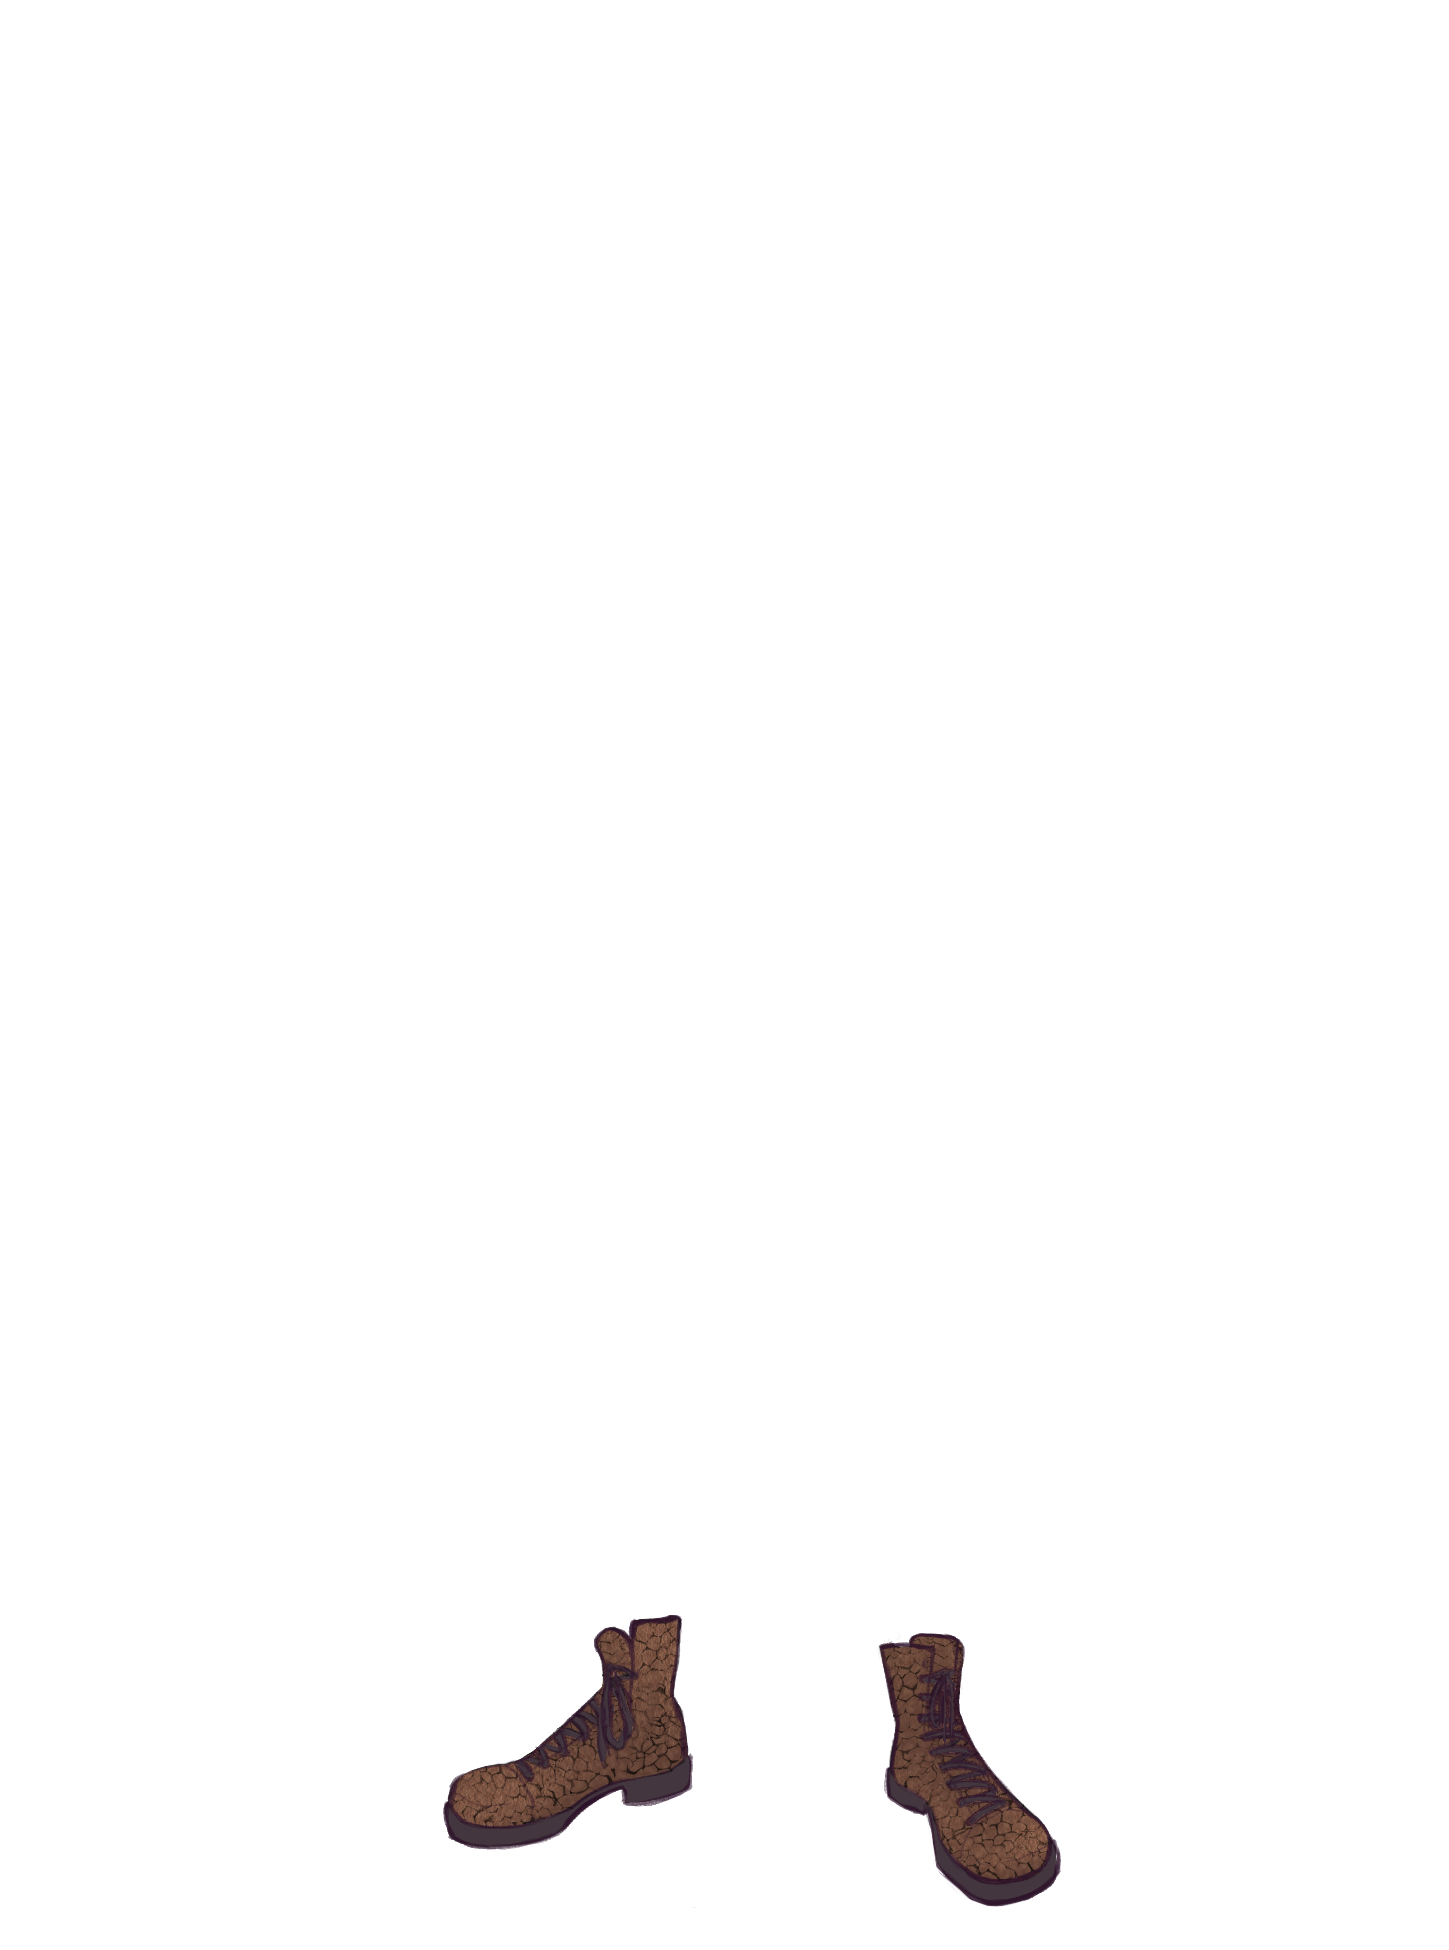
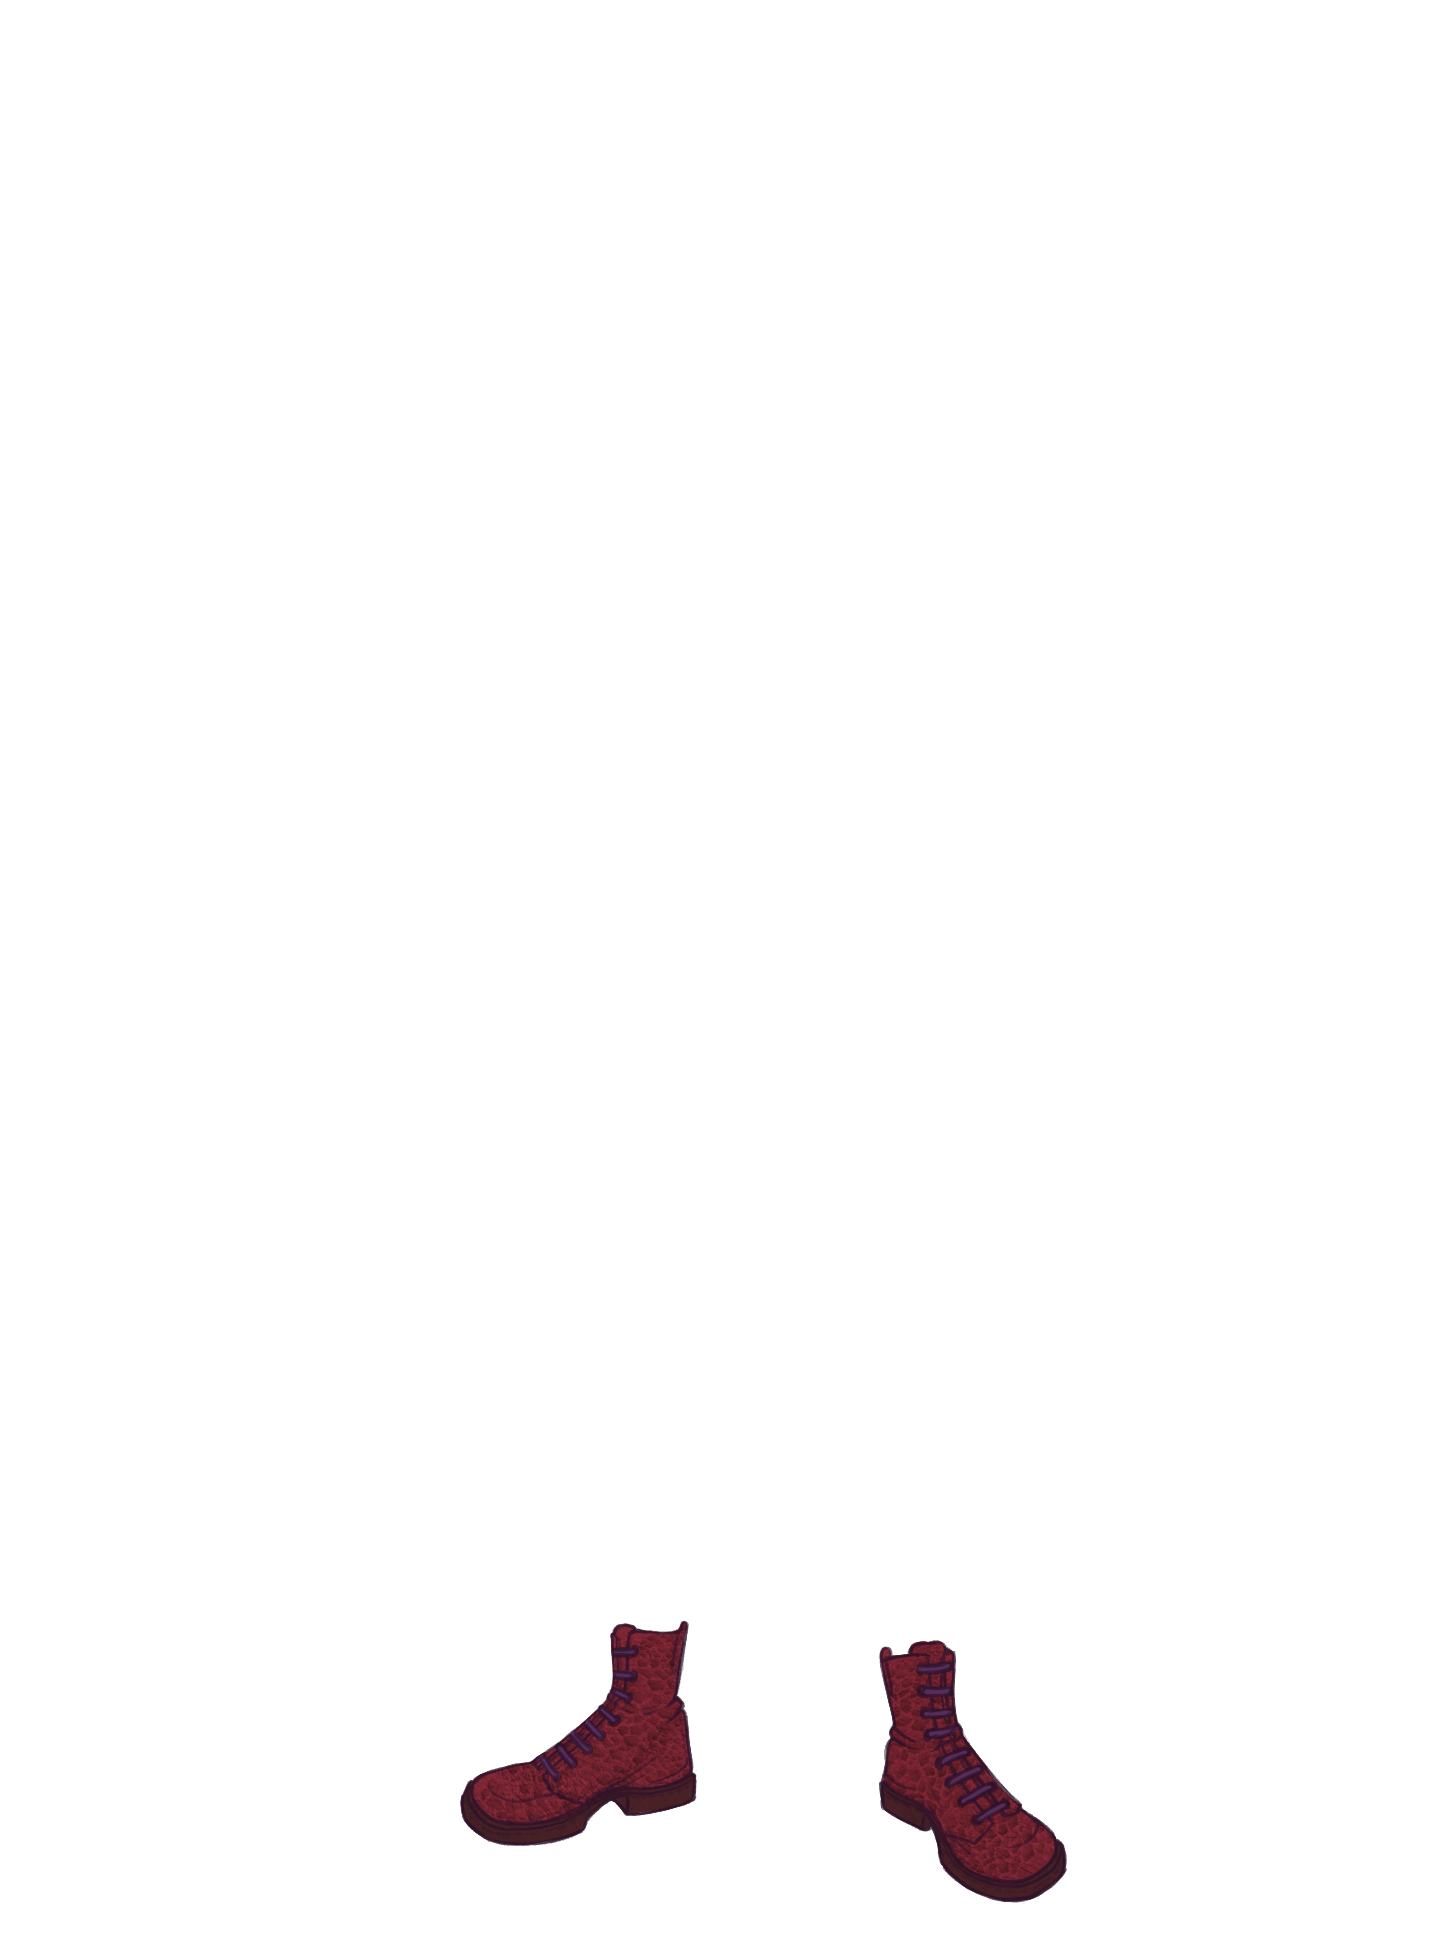
new boots?

Changed region(s): [[0.5901, 0.8308, 0.7453, 0.9846], [0.3106, 0.8308, 0.4969, 0.9538]]

diff --git a/src/config/characters/bill.ts b/src/config/characters/bill.ts
@@ -115,15 +115,12 @@ export const BillWeasley: CharacterConfig = {
         },
         {
             id: 'boots',
-            name: 'Boots',
+            name: 'Dragonhide boots',
             tab: 'clothes',
             subcategory: 'shoes',
             slot: 'shoes',
             src: 'assets/characters/bill/clothes/shoes/boots.PNG',
             icon: 'assets/characters/bill/icons/boots.png',
-            variants: {
-                trousers: 'assets/characters/bill/clothes/shoes/boots_trousers.PNG'
-            },
             defaultZIndex: 50,
             isRemovable: true,
             isDefault: true
